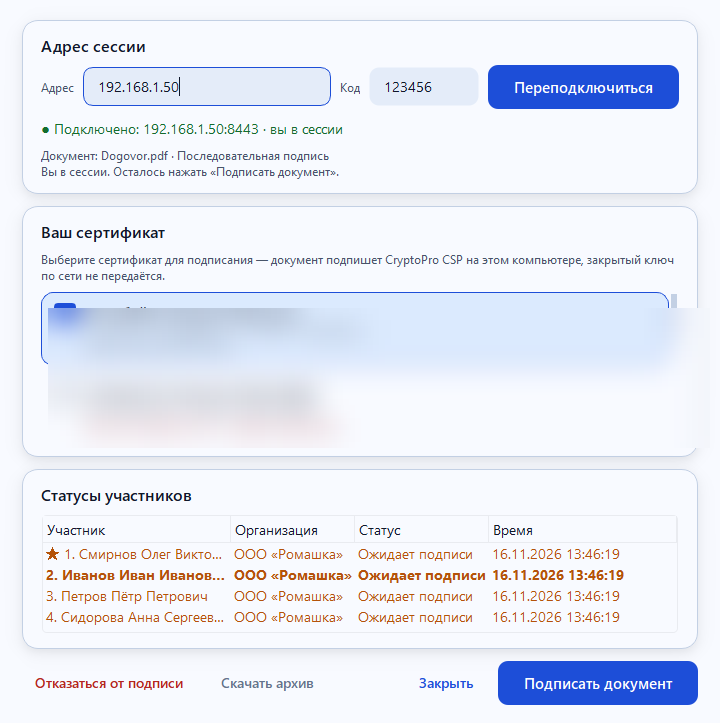
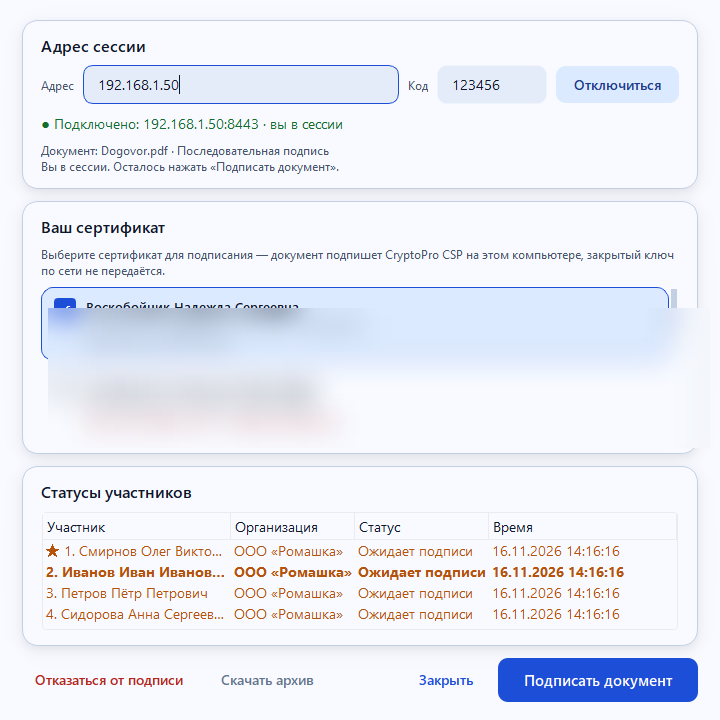
Кнопки хоста как у участника и переключение «Отключиться»

diff --git a/pdfsign/network_ui.py b/pdfsign/network_ui.py
@@ -569,6 +569,7 @@ class HostSessionDialog(QDialog):
         self._host_worker: ClientSignWorker | None = None
         self._host_signed = False
         self._known_names: dict[str, str] = {}
+        self._download_available = False
 
         layout = QVBoxLayout(self)
         layout.setContentsMargins(22, 20, 22, 18)
@@ -722,18 +723,25 @@ class HostSessionDialog(QDialog):
         self._abort.setStyleSheet(f"QPushButton {{ color: {theme.ERROR}; }}")
         self._abort.clicked.connect(self._abort_session)
         buttons.addWidget(self._abort)
+        self._download = QPushButton("Скачать архив")
+        self._download.setObjectName("Text")
+        self._download.setEnabled(False)
+        self._download.setToolTip("Пока никто не подписал — скачивать нечего")
+        self._download.clicked.connect(self._download_archive)
+        buttons.addWidget(self._download)
         buttons.addStretch(1)
+        self._finish = QPushButton("Завершить и сохранить")
+        self._finish.setObjectName("Tonal")
+        self._finish.setToolTip("Завершить сессию и сохранить итоговый файл")
+        self._finish.clicked.connect(self._finish_session)
+        buttons.addWidget(self._finish)
         self._sign = QPushButton("Подписать документ")
-        self._sign.setObjectName("Tonal")
+        self._sign.setObjectName("Filled")
         self._sign.setToolTip(
             "Подписать документ своим сертификатом как организатор"
         )
         self._sign.clicked.connect(self._sign_as_host)
         buttons.addWidget(self._sign)
-        self._finish = QPushButton("Завершить и сохранить")
-        self._finish.setObjectName("Filled")
-        self._finish.clicked.connect(self._finish_session)
-        buttons.addWidget(self._finish)
         layout.addLayout(buttons)
 
         self._copy_timer = QTimer(self)
@@ -778,6 +786,7 @@ class HostSessionDialog(QDialog):
         if self._host_signed:
             self._certs.setEnabled(False)
             self._refresh_certs.setEnabled(False)
+        self._update_download_state(snap)
         self._update_sign_button(snap)
 
     def _set_host_status(self) -> None:
@@ -892,6 +901,78 @@ class HostSessionDialog(QDialog):
         self._log.setText(text)
         self._log.setToolTip(text)
         self._log.setVisible(True)
+
+    # ---------------------------------------------------- host: archive copy
+    def _update_download_state(self, snap: dict) -> None:
+        signed = sum(
+            1 for p in snap["participants"] if p["status"] == network.STATUS_SIGNED
+        )
+        if self._session.config.mode != network.MODE_PARALLEL:
+            self._apply_download_style(False)
+            self._download.setToolTip(
+                "В последовательной схеме подписи внутри PDF — "
+                "используйте «Завершить и сохранить»"
+            )
+            return
+        available = signed > 0
+        self._apply_download_style(available)
+        if available:
+            self._download.setToolTip(
+                f"Скачать {self._session.archive_name()} — подписей: {signed}"
+            )
+        else:
+            self._download.setToolTip("Пока никто не подписал — скачивать нечего")
+
+    def _apply_download_style(self, available: bool) -> None:
+        if self._download_available == available:
+            return
+        self._download_available = available
+        self._download.setObjectName("Outline" if available else "Text")
+        self._download.setEnabled(available)
+        style = self._download.style()
+        style.unpolish(self._download)
+        style.polish(self._download)
+        self._download.update()
+
+    def _download_archive(self) -> None:
+        if self._session.config.mode != network.MODE_PARALLEL:
+            return
+        snap = self._session.snapshot()
+        signed = sum(
+            1 for p in snap["participants"] if p["status"] == network.STATUS_SIGNED
+        )
+        if signed == 0:
+            QMessageBox.warning(self, "Архив", "Пока никто не подписал документ.")
+            return
+        try:
+            archive = self._session.package_zip()
+        except Exception as exc:  # pragma: no cover - defensive
+            QMessageBox.critical(self, "Архив", f"Не удалось собрать архив: {exc}")
+            return
+        default = str(
+            pathlib.Path(snap["doc_name"]).with_name(self._session.archive_name())
+        )
+        path, _ = QFileDialog.getSaveFileName(
+            self, "Сохранить архив с подписями", default, "ZIP (*.zip)"
+        )
+        if not path:
+            return
+        if not path.lower().endswith(".zip"):
+            path += ".zip"
+        try:
+            pathlib.Path(path).write_bytes(archive)
+        except OSError as exc:
+            QMessageBox.critical(self, "Сохранение", f"Не удалось сохранить архив: {exc}")
+            return
+        self._log_message("Архив с подписями сохранён")
+        QMessageBox.information(
+            self,
+            "Готово",
+            f"Архив сохранён:\n{path}\n\n"
+            f"Внутри: {snap['doc_name']}, {signed} файл(а) подписей .sig"
+            + (", Protokol.pdf" if self._session.config.protocol else "")
+            + ". Сессия продолжается — участники могут подписывать дальше.",
+        )
 
     def _copy_code(self) -> None:
         QApplication.clipboard().setText(self._session.code)
@@ -1342,6 +1423,9 @@ class JoinSessionDialog(QDialog):
 
     # ------------------------------------------------------------ connection
     def _connect_session(self) -> None:
+        if self._client is not None:
+            self._disconnect_session()
+            return
         self._poll_failures = 0
         self._host_lost_notified = False
         self._finished_notified = False
@@ -1376,9 +1460,33 @@ class JoinSessionDialog(QDialog):
         )
         self._session_info.setText(self._session_summary)
         if self._try_join():
-            self._connect.setText("Переподключиться")
             self._set_connection_state("connected")
+            self._on_cert_changed()
             self._timer.start()
+
+    def _disconnect_session(self) -> None:
+        """Stop polling and leave the session (the button «Отключиться»)."""
+        self._timer.stop()
+        worker = self._worker
+        self._worker = None
+        if worker is not None and worker.isRunning():
+            for signal in (worker.progress, worker.done, worker.failed):
+                try:
+                    signal.disconnect()
+                except Exception:
+                    pass
+            worker.terminate()
+            worker.wait(2000)
+        client = self._client
+        if (
+            client is not None
+            and self._joined
+            and not self._signed
+            and not self._declined
+            and not self._finished_notified
+        ):
+            client.leave()
+        self._reset_connection()
 
     def _reset_connection(self) -> None:
         self._client = None
@@ -1387,6 +1495,7 @@ class JoinSessionDialog(QDialog):
         self._declined = False
         self._session_summary = ""
         self._connect.setText("Подключиться")
+        self._table.clear()
         self._set_connection_state("idle")
         self._apply_download_style(False)
         self._download.setToolTip("Пока никто не подписал — скачивать нечего")
@@ -1447,18 +1556,43 @@ class JoinSessionDialog(QDialog):
         self._sign.setEnabled(
             self._joined and usable and not (self._signed or self._declined)
         )
-        self._connect.setEnabled(cert is not None)
-        self._connect.setToolTip(
-            "Подключиться к сессии организатора"
-            if cert is not None
-            else "Сначала выберите сертификат — без него подключиться нельзя"
-        )
+        self._update_connect_button(cert)
         if self._connection_state == "idle":
             self._session_info.setText(
                 "Введите адрес и код, которые сообщил организатор."
                 if cert is not None
                 else "Выберите сертификат ниже — после этого кнопка "
                 "«Подключиться» станет доступной."
+            )
+
+    def _update_connect_button(self, cert) -> None:
+        """«Подключиться» when idle, «Отключиться» when a session is open."""
+        connected = self._client is not None
+        text = "Отключиться" if connected else "Подключиться"
+        if self._connect.text() != text:
+            self._connect.setText(text)
+        style_name = "Tonal" if connected else "Filled"
+        if self._connect.objectName() != style_name:
+            self._connect.setObjectName(style_name)
+            style = self._connect.style()
+            style.unpolish(self._connect)
+            style.polish(self._connect)
+            self._connect.update()
+        busy = self._worker is not None
+        self._connect.setEnabled(
+            not busy
+            and not (self._signed or self._declined)
+            and (connected or cert is not None)
+        )
+        if self._signed or self._declined:
+            self._connect.setToolTip("Подпись уже отправлена — закройте окно")
+        elif connected:
+            self._connect.setToolTip("Отключиться от сессии")
+        elif cert is not None:
+            self._connect.setToolTip("Подключиться к сессии организатора")
+        else:
+            self._connect.setToolTip(
+                "Сначала выберите сертификат — без него подключиться нельзя"
             )
 
     # ---------------------------------------------------------------- signing
@@ -1471,6 +1605,7 @@ class JoinSessionDialog(QDialog):
             return
         self._sign.setEnabled(False)
         self._sign.setText("Подписание…")
+        self._connect.setEnabled(False)
         self._worker = ClientSignWorker(self._client, cert.thumbprint, self._mode)
         self._worker.progress.connect(self._on_progress)
         self._worker.done.connect(self._on_signed)
@@ -1486,6 +1621,7 @@ class JoinSessionDialog(QDialog):
         self._sign.setText("Подписано ✓")
         self._sign.setEnabled(False)
         self._decline.setEnabled(False)
+        self._on_cert_changed()
         QMessageBox.information(
             self, "Готово",
             "Документ подписан. Организатор увидит статус «Подписан», "
@@ -1516,6 +1652,7 @@ class JoinSessionDialog(QDialog):
         self._sign.setEnabled(False)
         self._decline.setEnabled(False)
         self._sign.setText("Отказ от подписи отправлен")
+        self._on_cert_changed()
 
     # ------------------------------------------------------------ package
     def _download_package(self) -> None:
@@ -1661,10 +1798,13 @@ class JoinSessionDialog(QDialog):
                     self._sign.setText("Подписано ✓")
                     self._sign.setEnabled(False)
                     self._decline.setEnabled(False)
+                    self._on_cert_changed()
                 elif item["status"] == network.STATUS_DECLINED:
                     self._declined = True
+                    self._sign.setText("Отказ от подписи отправлен")
                     self._sign.setEnabled(False)
                     self._decline.setEnabled(False)
+                    self._on_cert_changed()
                 elif item["status"] == network.STATUS_ERROR:
                     self._sign.setText("Подписать документ")
                     self._on_cert_changed()

diff --git a/packaging/release-notes-1.1.0.md b/packaging/release-notes-1.1.0.md
@@ -18,7 +18,9 @@ PDF Мультиподпись 1.1.0 — подпись PDF нескольким
   неё первым и сразу отображается в списке (строка «★»), может сменить
   сертификат до подписи и подписывает документ той же двухфазной процедурой,
   что и остальные (в последовательной схеме — ревизией PDF, в соподписи —
-  отдельным `.sig`).
+  отдельным `.sig`). Кнопки внизу — в тех же местах, что у участника:
+  «Скачать архив» слева и «Подписать документ» справа; «Завершить и сохранить»
+  стоит слева от подписи и завершает сессию, сохраняя итог.
 - **Контроль присутствия участников**: участник подтверждает связь каждые 2 с;
   при закрытии окна он исчезает из списка сразу, при обрыве связи — через 10 с.
   Подписавшие и отказавшиеся остаются в списке и протоколе. Если пропадает
@@ -30,8 +32,9 @@ PDF Мультиподпись 1.1.0 — подпись PDF нескольким
   сертификат использует не Стрибог-256.
 - Окно участника: кнопка «Подключиться» неактивна, пока не выбран сертификат
   (с подсказкой при наведении); после подключения показывается зелёный статус
-  «Подключено: адрес · вы в сессии»; последний введённый адрес запоминается и
-  подставляется при следующем подключении.
+  «Подключено: адрес · вы в сессии», а кнопка превращается в **«Отключиться»**.
+  Последний введённый адрес запоминается и подставляется при следующем
+  подключении.
 - Кнопка «Скачать архив» неактивна, пока никто не подписал; при наличии подписей
   становится активной и получает видимую рамку.
 - Загрузка PDF **кликом по рамке** переноса файла (не только перетаскиванием и кнопкой).
@@ -39,7 +42,7 @@ PDF Мультиподпись 1.1.0 — подпись PDF нескольким
 - Окно параметров сессии: сначала «Параллельная подпись» (выбрана по умолчанию), затем «Последовательная подпись» с вложенными «Строгая очередь» и «Видимый штамп подписи в документе».
 - Окно организатора: 720×860, блок выбора сертификата как у участника, адреса подключения в одном копируемом поле; подтверждения «Да / Нет» — свой диалог с одинаковым порядком кнопок в Windows и Linux.
 - Последовательная схема: организатор меняет порядок участников перетаскиванием строки за «⋮⋮» или кнопками «Выше»/«Ниже»; подписавшие остаются в начале списка, «Строгая очередь» учитывает новый порядок.
-- Соподпись: итоговый ZIP-пакет (`Dogovor_podpisi.zip`) с исходным PDF, файлами `Dogovor_<ФИО>.pdf.sig` и протоколом `Protokol.pdf`; архив может скачать любой участник кнопкой «Скачать архив».
+- Соподпись: итоговый ZIP-пакет (`Dogovor_podpisi.zip`) с исходным PDF, файлами `Dogovor_<ФИО>.pdf.sig` и протоколом `Protokol.pdf`; архив может скачать и организатор, и любой участник кнопкой «Скачать архив», не завершая сессию.
 - Проверка подписи: CMS без атрибута `messageDigest` больше не считается
   валидной — выполняется проверка через CryptoPro.
 - Код сессии — только 6 цифр (его проще продиктовать); если участник не указал порт, подставляется 8443 автоматически.
@@ -85,9 +88,9 @@ prepare/commit), закрытый ключ не покидает его комп
 ## Контрольные суммы
 
 ```
-SHA256  PDF-Multisign-1.1.0-win64.msi       24a1e4faba4c472701f3b14318c2c00e1950fedd77b316ecbaf5fff3f81cecf8
-SHA256  PDF-Multisign.exe                   11e1dde2e63df7b7d0004fc8d8a8591eb17b0fc0933b151acb55370a75bcc5ac
-SHA256  pdf-multisign_1.1.0_amd64.deb       2e8faf5646cae59b49746d92e48efbd05fa22beaab49e7e29d2ce8210fcb54c5
+SHA256  PDF-Multisign-1.1.0-win64.msi       128014bafe604f8ea967e2e5867dfa79bca1913b4123d13e7ac8eb5b31849c89
+SHA256  PDF-Multisign.exe                   7fc4dbbca50829fa984839dc5bb03b88a57efb767211f2a2e208576a62faa4f5
+SHA256  pdf-multisign_1.1.0_amd64.deb       dab46bc9ec1f697f9b2f3431471c141cce1771588be6113c803d470132e3686c
 ```
 
 Лицензия кода — MIT. Исходники и описание: https://github.com/Tripswarlock/pdf-multisign

diff --git a/README.md b/README.md
@@ -91,13 +91,19 @@ pdf-multisign
    вводят адрес и код, выбирают сертификат и нажимают **«Подписать документ»**.
    Порт можно не указывать — подставится 8443. Кнопка «Подключиться» становится
    активной после выбора сертификата, а под адресом показывается состояние —
-   «Подключено» или «Нет связи». Последний адрес запоминается (локально, в
-   настройках пользователя) и подставляется при следующем подключении. Можно
+   «Подключено» или «Нет связи». После подключения эта же кнопка называется
+   **«Отключиться»** и выводит из сессии. Последний адрес запоминается (локально,
+   в настройках пользователя) и подставляется при следующем подключении. Можно
    **отказаться от подписи** — организатор увидит отказ.
 3. **Организатор — равноправный участник сессии**: в его окне такой же блок
    выбора сертификата, как у участника. Организатор входит в сессию сразу при её
    создании (первым в списке, строка помечена «★»), может сменить сертификат до
    подписи и подписывает документ той же двухфазной процедурой, что и остальные.
+   Кнопки внизу — в тех же местах, что у участника: **«Скачать архив»** слева и
+   **«Подписать документ»** справа. В соподписи архив можно скачать в любой
+   момент, не завершая сессию; **«Завершить и сохранить»** стоит слева от
+   «Подписать документ» и завершает сессию, сохраняя итог (в последовательной
+   схеме — единственный способ сохранить PDF).
 4. Закрытый ключ не покидает компьютер участника: в последовательной схеме
    приложение получает от ведущего точные байты для подписи (области
    `/ByteRange` подготовленной ревизии), создаёт отсоединённую CAdES-BES через
@@ -120,7 +126,8 @@ pdf-multisign
    `Dogovor.pdf`, файлы `Dogovor_Иванов.pdf.sig`, `Dogovor_Петров.pdf.sig` и
    `Protokol.pdf` со списком подписантов, статусами и временем. Кнопка
    «Скачать архив» активна (в рамке), только когда есть хотя бы одна подпись;
-   до этого она неактивна — скачивать нечего.
+   до этого она неактивна — скачивать нечего. Архив доступен и организатору,
+   и любому участнику; скачивание не завершает сессию.
 
 Ограничения режима: компьютеры в одной сети, у ведущего должен быть открыт порт
 (по умолчанию 8443), обмен идёт по HTTP внутри ЛВС и защищён только кодом
